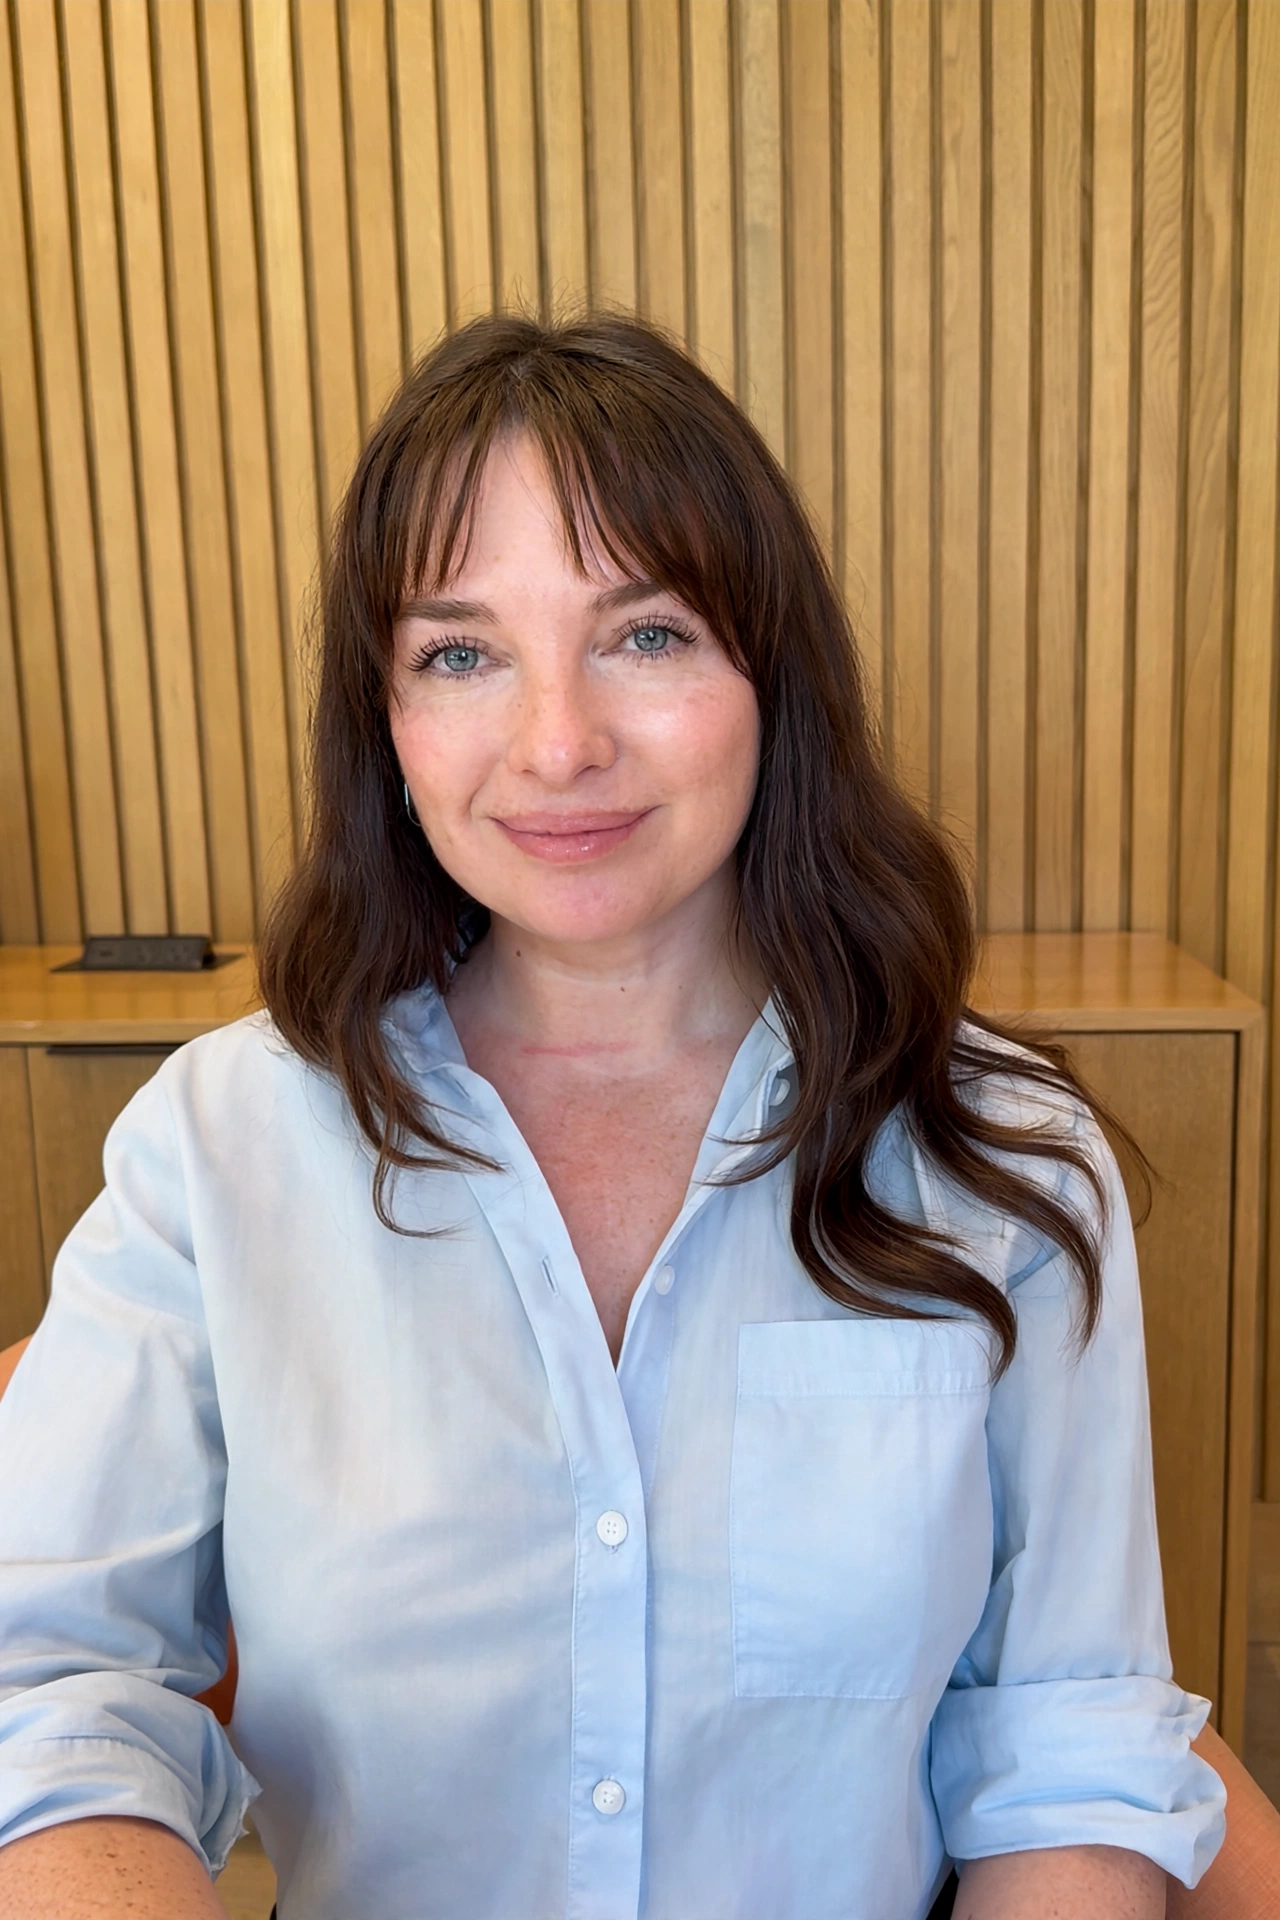
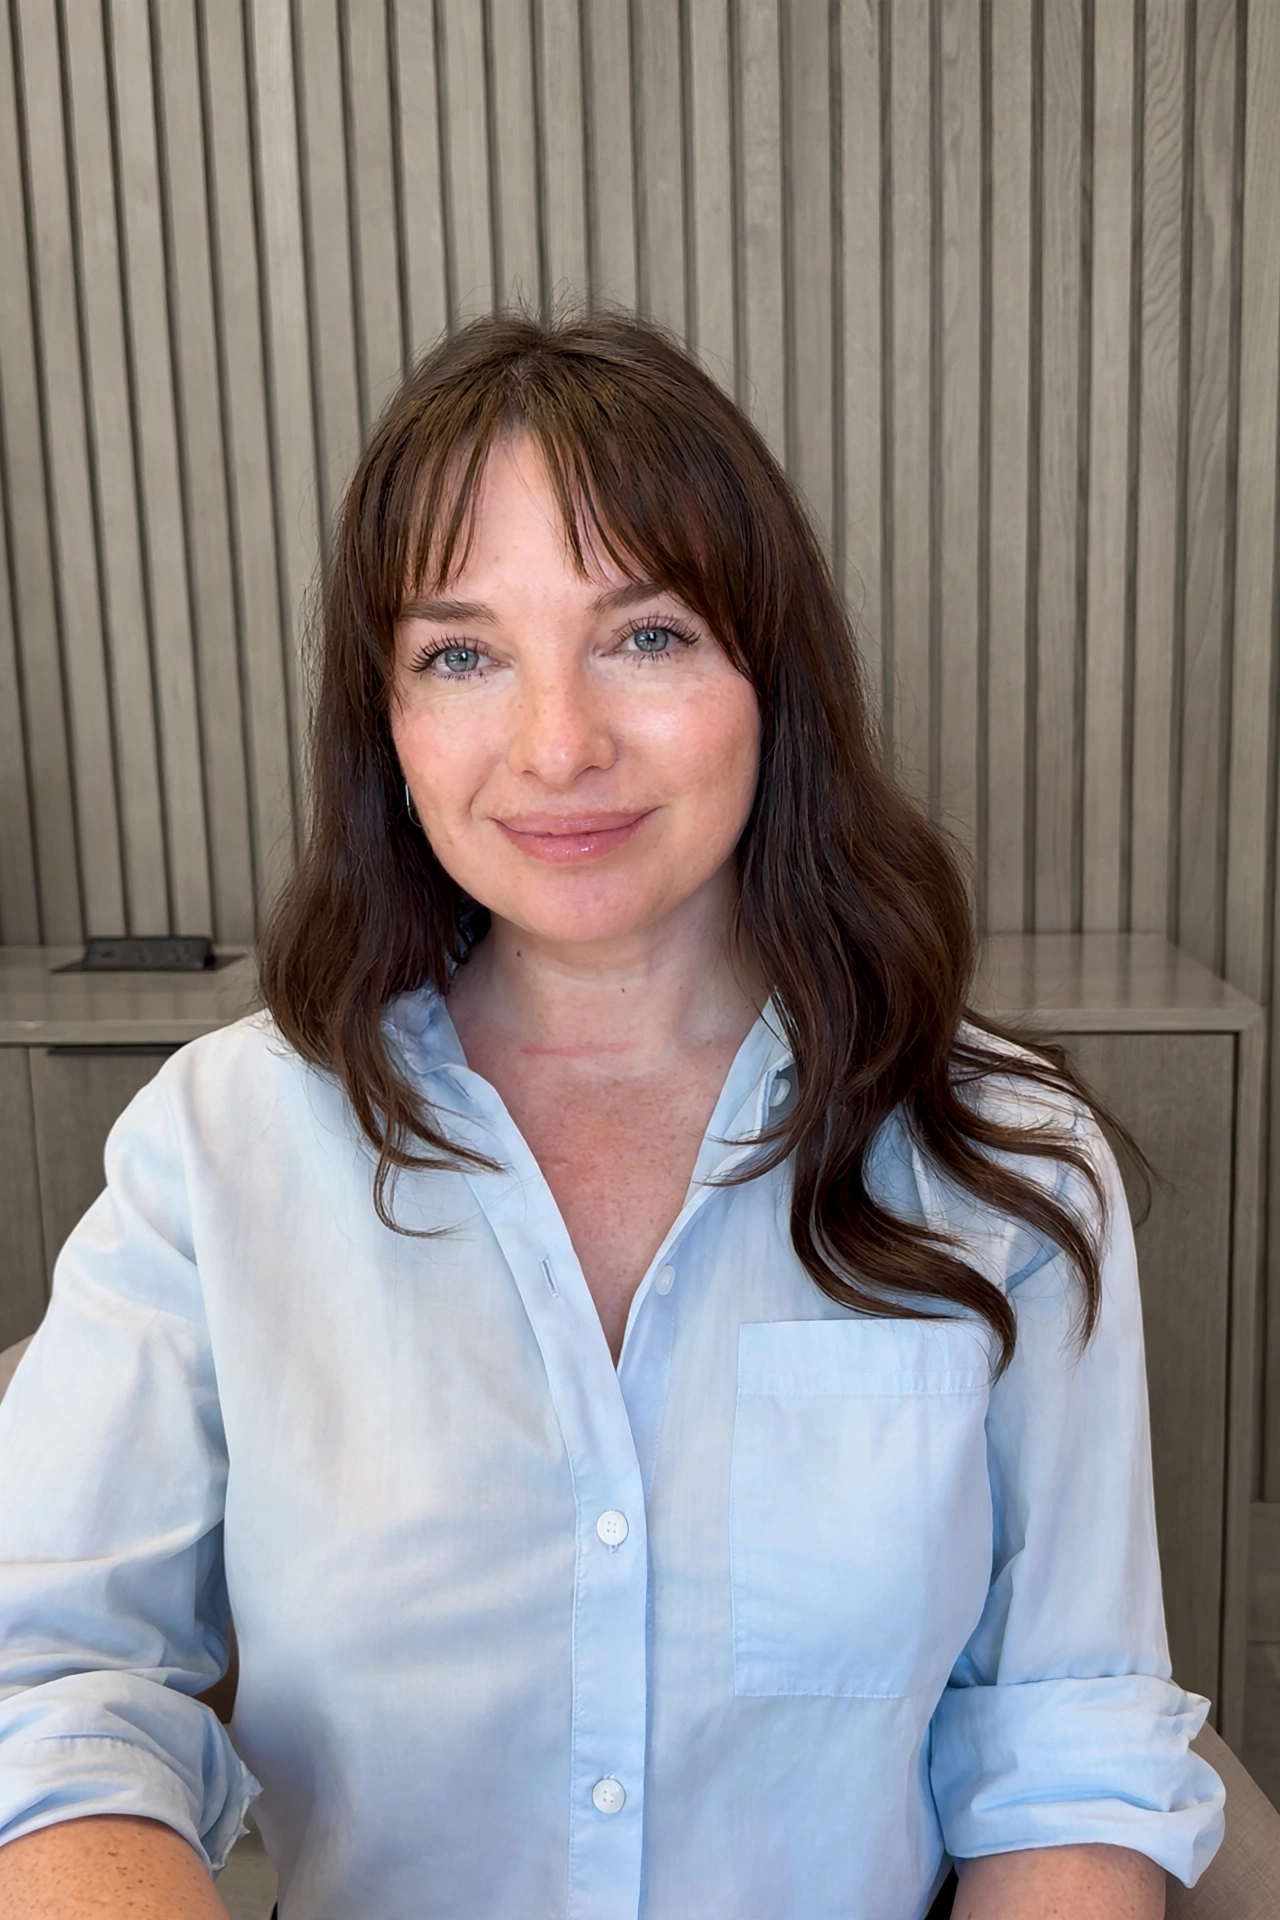
LexiQ visual per designer mockup; capabilities 3-col mobile; cooler portrait bg

diff --git a/preview-hero.html b/preview-hero.html
@@ -238,19 +238,19 @@ h2{
 }
 .flow-center .spark{color:var(--slate)}
 
-/* flashcard visual */
-.flash-stack{position:relative;width:230px;height:190px}
-.flash-back,.flash-front{
-  position:absolute;border-radius:12px;border:1px solid var(--line);
-  box-shadow:var(--shadow);display:flex;align-items:center;justify-content:center;
-  font-weight:700;font-size:26px;letter-spacing:-.02em;
+/* LexiQ visual: "Learn. Remember." panel + steps, per designer mockup */
+.lexiq-visual{display:flex;gap:28px;align-items:stretch;width:100%;flex-wrap:wrap}
+.learn-panel{
+  flex:1 1 180px;display:flex;flex-direction:column;justify-content:center;gap:4px;
+  border:1px solid var(--line);border-radius:14px;background:var(--card);
+  box-shadow:var(--shadow);padding:32px 28px;
+  font-weight:700;font-size:30px;letter-spacing:-.02em;line-height:1.25;color:var(--ink);
 }
-.flash-back{
-  inset:0 0 24px 24px;background:linear-gradient(135deg,var(--ice),var(--mint));
-  transform:rotate(5deg);color:#fff;
-}
-.flash-front{inset:24px 24px 0 0;background:var(--card);color:var(--ink);flex-direction:column;gap:2px}
-.flash-front small{font-family:"IBM Plex Mono",monospace;font-weight:400;font-size:10px;letter-spacing:.14em;color:var(--faint)}
+.lexiq-visual .steps-stack{flex:2 1 260px;min-width:0;width:auto;margin:0;padding:20px 8px 30px}
+.lexiq-visual .steps-card{min-height:0;padding:20px 22px;gap:16px}
+.lexiq-visual .steps-card + .steps-card{margin-top:-12px}
+.lexiq-visual .steps-number{width:32px;height:32px;font-size:14px}
+.lexiq-visual .steps-text{font-size:19px;line-height:1.35}
 </style>
 <style>
 /* ============ STEPS STACK (LexiQ) ============ */
@@ -389,8 +389,11 @@ footer{border-top:1px solid var(--line);padding:32px 0 40px}
   .stat-num{font-size:38px}
   .work-grid{grid-template-columns:1fr}
   .builds-grid{grid-template-columns:1fr}
-  .cap-grid{grid-template-columns:1fr}
-  .cap-card{padding:24px 20px}
+  .cap-grid{grid-template-columns:repeat(3,minmax(0,1fr))}
+  .cap-card{padding:20px 14px}
+  .cap-num{margin-bottom:12px;font-size:10px}
+  .cap-card h3{font-size:16px;margin-bottom:10px;overflow-wrap:anywhere}
+  .cap-card p{font-size:12px;line-height:1.6;overflow-wrap:anywhere}
   .svc-row{grid-template-columns:40px 1fr 40px;grid-template-areas:"num name arrow" "num desc arrow"}
   .svc-num{grid-area:num}.svc-name{grid-area:name}.svc-desc{grid-area:desc}.svc-arrow{grid-area:arrow}
   .creds{grid-template-columns:1fr}
@@ -518,11 +521,8 @@ footer{border-top:1px solid var(--line);padding:32px 0 40px}
         <!-- LexiQ -->
         <article class="work-card reveal">
           <div class="work-visual" aria-hidden="true">
-            <div style="display:flex;gap:24px;align-items:center;flex-wrap:wrap;justify-content:center;width:100%">
-              <div class="flash-stack">
-                <div class="flash-back">Aa</div>
-                <div class="flash-front"><small>FLASHCARD</small><span>Learn.</span><span>Remember.</span></div>
-              </div>
+            <div class="lexiq-visual">
+              <div class="learn-panel"><span>Learn.</span><span>Remember.</span></div>
               <div class="steps-stack">
                 <div class="steps-card">
                   <span class="steps-border" aria-hidden="true"></span>
